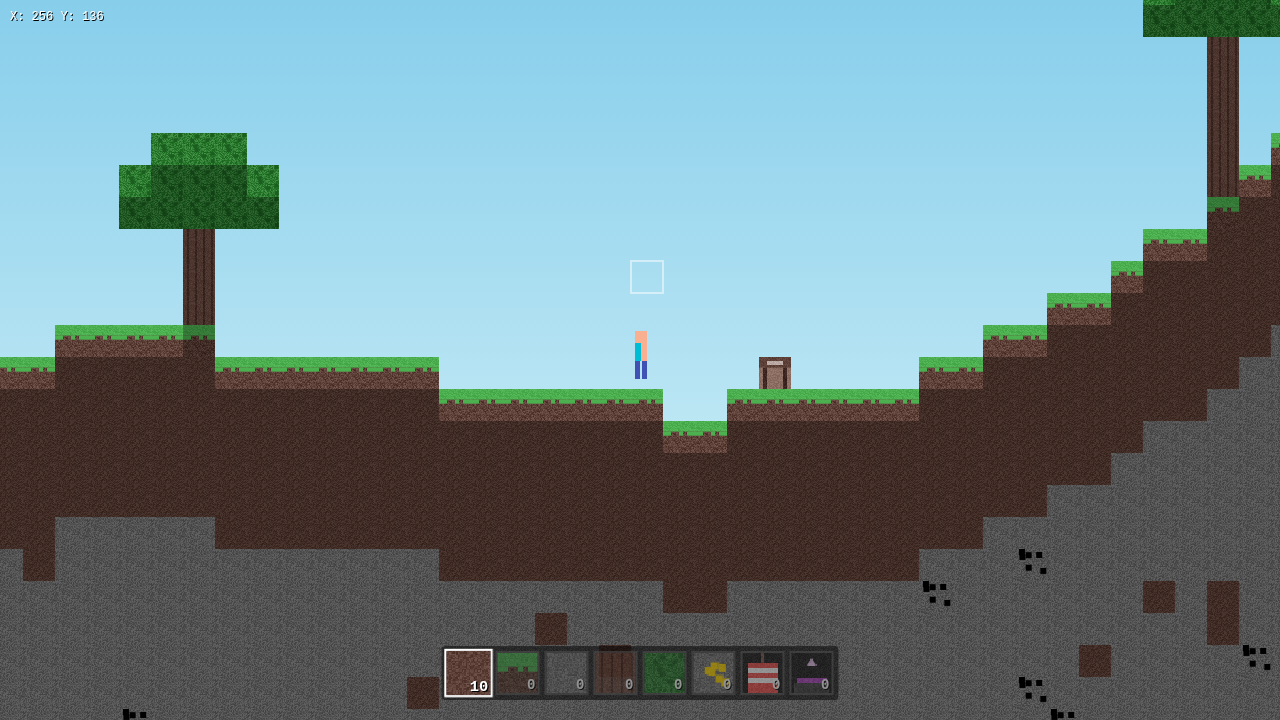
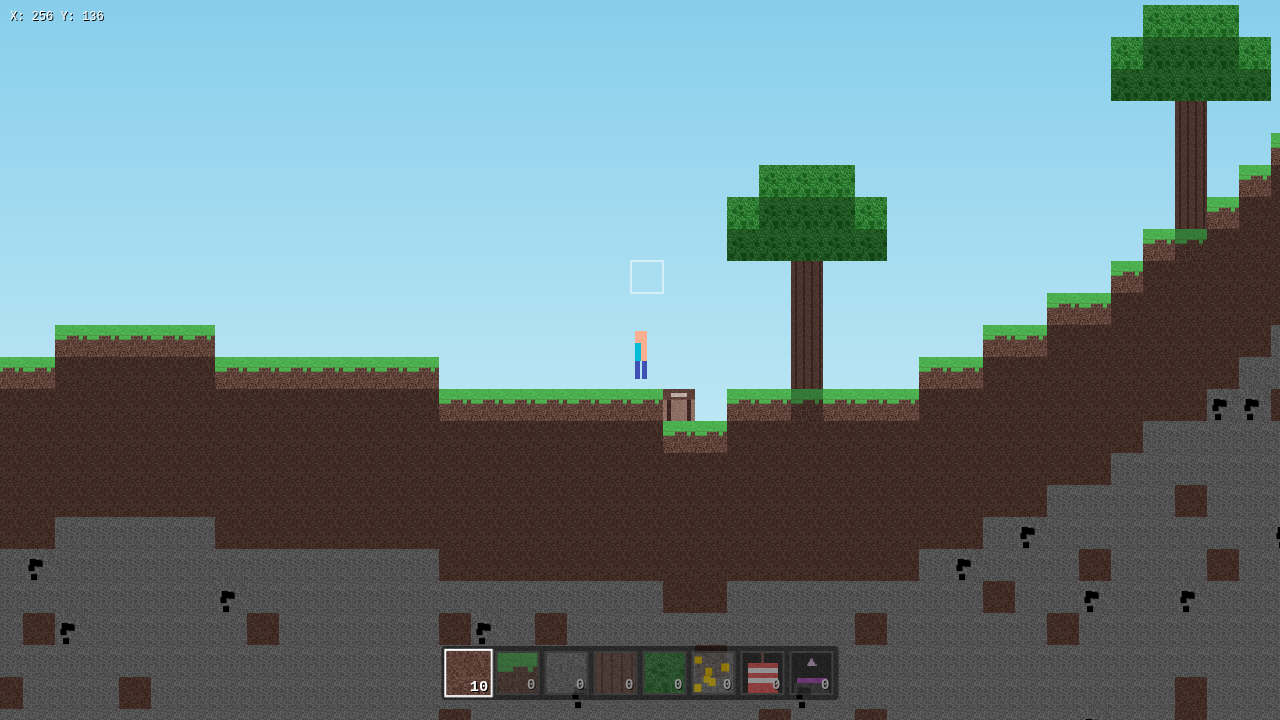
Fix Workbench placement and crafting UI interaction bugs

diff --git a/main.js b/main.js
@@ -376,7 +376,9 @@ function update(dt) {
 
     // Interaction
     if (input.mouse.leftDown) {
-        handleInteraction(input.mouse.x, input.mouse.y);
+        if (!isCraftingOpen) {
+            handleInteraction(input.mouse.x, input.mouse.y);
+        }
         input.mouse.leftDown = false;
     }
 
@@ -612,7 +614,7 @@ function handleInteraction(screenX, screenY) {
     }
 
     // Place
-    if (currentBlock === BLOCKS.AIR || isBlockTransparent(currentBlock, BLOCK_PROPS)) {
+    if ((currentBlock === BLOCKS.AIR || isBlockTransparent(currentBlock, BLOCK_PROPS)) && currentBlock !== BLOCKS.WORKBENCH) {
         const playerRect = player.getRect();
         const blockRect = { x: bx * TILE_SIZE, y: by * TILE_SIZE, w: TILE_SIZE, h: TILE_SIZE };
 
